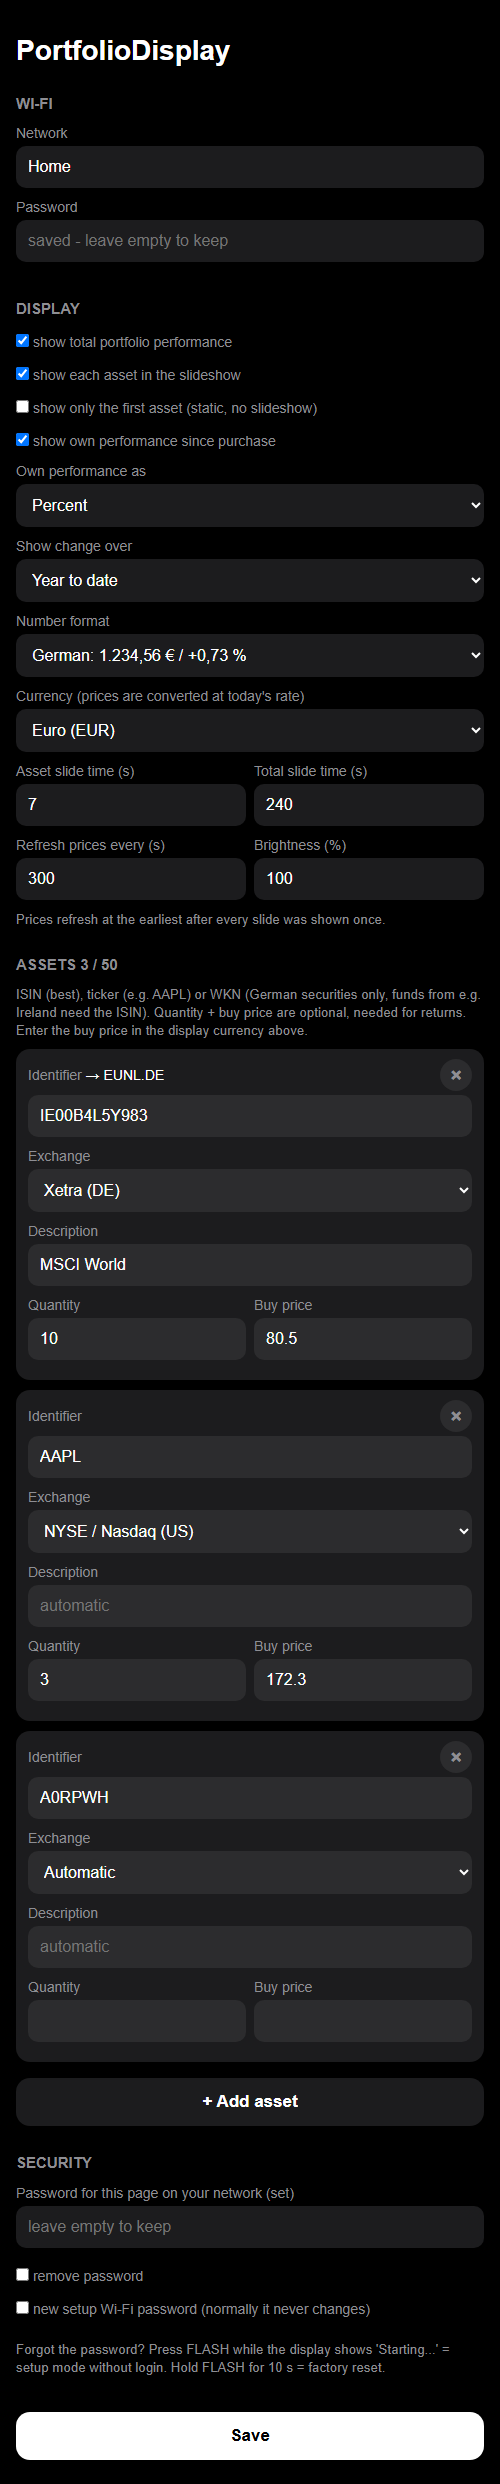
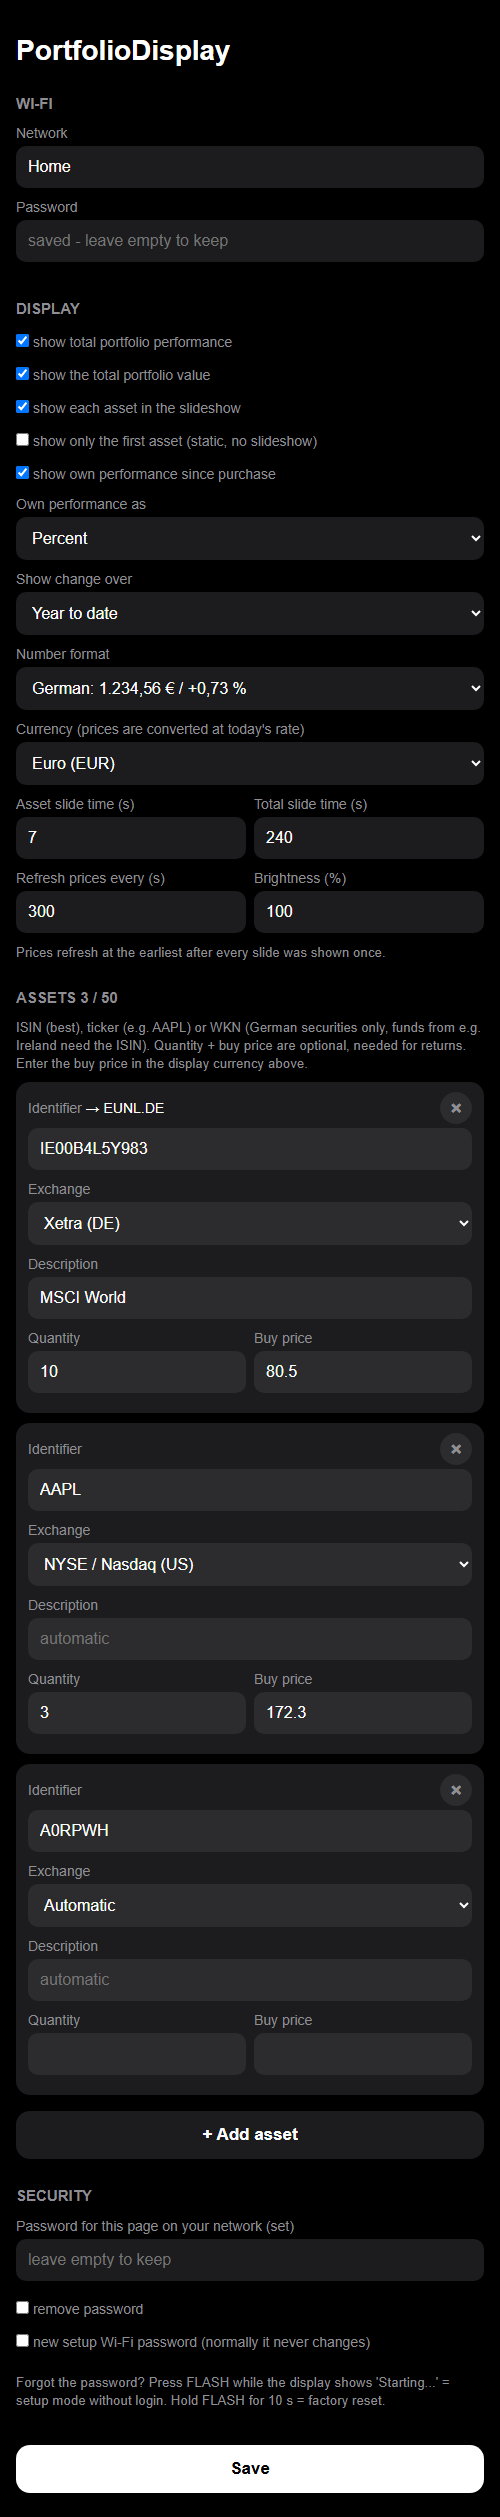
switch for the portfolio value line

Changed region(s): [[0.03, 0.031, 0.99, 0.806], [0.03, 0.837, 0.96, 0.9919], [0.51, 0.775, 0.6, 0.806]]

diff --git a/src/www/index.html b/src/www/index.html
@@ -21,6 +21,7 @@
 <section id=display>
 <h2>Display</h2>
 <label class=c><input class=cb type=checkbox name=show_total> show total portfolio performance</label>
+<label class=c><input class=cb type=checkbox name=show_value> show the total portfolio value</label>
 <label class=c><input class=cb type=checkbox name=show_assets> show each asset in the slideshow</label>
 <label class=c><input class=cb type=checkbox name=single> show only the first asset (static, no slideshow)</label>
 <label class=c><input class=cb type=checkbox name=show_gain> show own performance since purchase</label>
@@ -182,7 +183,7 @@ function fill(c) {
 
   // plain fields
   for (const k of ['ssid', 'period', 'numfmt', 'cur', 'gain', 'slide_s', 'total_s', 'fetch_s', 'bright']) f.elements[k].value = s[k];
-  for (const k of ['show_total', 'show_assets', 'single', 'show_gain']) f.elements[k].checked = s[k];
+  for (const k of ['show_total', 'show_assets', 'single', 'show_gain', 'show_value']) f.elements[k].checked = s[k];
   f.pw.placeholder = c.pw ? 'saved - leave empty to keep' : '';
   for (const n of c.nets) $('#nets').append(new Option(n));
 

diff --git a/src/core/screens.py b/src/core/screens.py
@@ -44,13 +44,17 @@ def _since(app, gain: float, cost: float, code: str, dec: int, partial: bool):
 
 def _card(app, labels: list, ch: float, start: float, worth: str, gain: str, since, page: tuple,
           extra=None) -> None:
-    """Shared layout: headline = change in % over the period, value with arrow, change in money, own performance."""
+    """Shared layout: headline = change in % over the period, value with arrow, change in money, own performance.
+
+    worth None = value line hidden, the trend arrow moves to the change line.
+    """
     u = app.ui
     lbl = PERIOD.get(app.s["period"], "")
 
-    # small screens only fit one line, so the period label rides along with the value
-    subs = [([worth + " " + lbl, worth] if u.small else [worth], u.fg, ch),
-            ([gain + " " + lbl, gain], u.tone(ch), 0)]
+    # small screens only fit one line, so the period label rides along with the first one
+    subs = [([gain + " " + lbl, gain], u.tone(ch), 0 if worth else ch)]
+    if worth:
+        subs.insert(0, ([worth + " " + lbl, worth] if u.small else [worth], u.fg, ch))
     if since:
         subs.append(since)
     if extra:
@@ -120,4 +124,5 @@ def portfolio(app) -> None:
     ch = value - start
     since = _since(app, paid - cost, cost, code, 2, partial)
     extra = (["%d price(s) missing" % missing], u.dim, 0) if missing else None
-    _card(app, ["Portfolio"], ch, start, money_str(value, code), money_str(ch, code, 2, True), since, page, extra)
+    worth = money_str(value, code) if app.s["show_value"] else None
+    _card(app, ["Portfolio"], ch, start, worth, money_str(ch, code, 2, True), since, page, extra)

diff --git a/tools/sim.py b/tools/sim.py
@@ -122,9 +122,9 @@ class FakeApp:
     """Same fields core.screens reads from core.app.App: settings, float arrays, asset()."""
 
     def __init__(self, ui, slide: int = 0, period: str = "1d", numfmt: str = "de", single: bool = False,
-                 gain: str = "pct", show_gain: int = 1) -> None:
+                 gain: str = "pct", show_gain: int = 1, show_value: int = 1) -> None:
         self.ui, self.slide, self.ip = ui, slide, "192.168.178.123"
-        self.s = {"period": period, "numfmt": numfmt, "gain": gain, "show_gain": show_gain}
+        self.s = {"period": period, "numfmt": numfmt, "gain": gain, "show_gain": show_gain, "show_value": show_value}
         self.n = len(ITEMS)
 
         # slide 0 = portfolio total, then the assets; single = first asset only
@@ -193,6 +193,7 @@ def main() -> None:
         shot("single", lambda u: screens.render(FakeApp(u, single=True)))
         shot("total_abs", lambda u: screens.render(FakeApp(u, gain="abs")))
         shot("asset0_abs", lambda u: screens.render(FakeApp(u, 1, gain="abs")))
+        shot("total_novalue", lambda u: screens.render(FakeApp(u, show_value=0)))
         shot("asset0_nogain", lambda u: screens.render(FakeApp(u, 1, show_gain=0)))
         shot("dimmed", lambda u: screens.render(FakeApp(UI(u.d, 40), 1)))
     check_qr()

diff --git a/tools/portal_shots.py b/tools/portal_shots.py
@@ -26,7 +26,7 @@ BROWSERS = (r"C:\Program Files (x86)\Microsoft\Edge\Application\msedge.exe",
             r"C:\Program Files\Google\Chrome\Application\chrome.exe", "chromium", "google-chrome")
 
 BASE = {"ssid": "", "show_total": 1, "show_assets": 1, "single": 0, "period": "1d", "numfmt": "de",
-        "cur": "EUR", "show_gain": 1, "gain": "pct", "slide_s": 7, "total_s": 240, "fetch_s": 300, "bright": 100}
+        "cur": "EUR", "show_gain": 1, "show_value": 1, "gain": "pct", "slide_s": 7, "total_s": 240, "fetch_s": 300, "bright": 100}
 ASSETS = [
     {"id": "IE00B4L5Y983", "ex": ".DE", "name": "MSCI World", "qty": 10, "buy": 80.5,
      "sym": "EUNL.DE", "yname": "iShares Core MSCI World"},

diff --git a/src/data/store.py b/src/data/store.py
@@ -20,6 +20,7 @@ DEFAULTS = {
     "show_assets": 1,  # slideshow: one page per asset
     "single": 0,       # 1 = only the first asset, static (overrides the two above)
     "show_gain": 1,    # own performance since purchase
+    "show_value": 1,   # total page: value of all holdings
     "gain": "pct",     # pct | abs
     "period": "1d",    # 1d | 5d | ytd | max, change shown next to the price
     "numfmt": "de",    # de: 1.234,56 € | en: €1,234.56

diff --git a/src/net/save.py b/src/net/save.py
@@ -11,7 +11,7 @@ import os
 from data import assets, store
 
 PENDING = "/pending.form"
-SWITCHES = ("show_total", "show_assets", "single", "show_gain")
+SWITCHES = ("show_total", "show_assets", "single", "show_gain", "show_value")
 PERIODS = ("1d", "5d", "ytd", "max")
 NUMFMTS = ("de", "en")
 CURRENCIES = ("EUR", "USD", "GBP", "CHF", "JPY", "native")

diff --git a/docs/ARCHITECTURE.md b/docs/ARCHITECTURE.md
@@ -155,7 +155,7 @@ The form is a static file. A script loads `/cfg.json`, fills the fields and clon
 
 | File | Content | Factory reset |
 |---|---|---|
-| `/settings.json` | `ssid`, `show_total`, `show_assets`, `single`, `show_gain`, `gain`, `period`, `numfmt`, `cur`, `slide_s`, `total_s`, `fetch_s`, `bright` | removed |
+| `/settings.json` | `ssid`, `show_total`, `show_assets`, `single`, `show_gain`, `gain`, `show_value`, `period`, `numfmt`, `cur`, `slide_s`, `total_s`, `fetch_s`, `bright` | removed |
 | `/assets.jsonl` | per line: `id`, `ex`, `name`, `qty`, `buy`, `sym`, `yname` | removed |
 | `/prices.bin` | per asset: price, base (f32), valid flag, currency, last error | removed |
 | `/secret.bin` | AES: Wi-Fi password, salted hash of the page password | removed |
